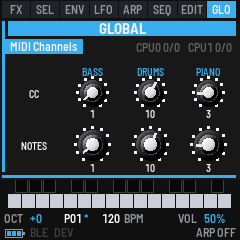
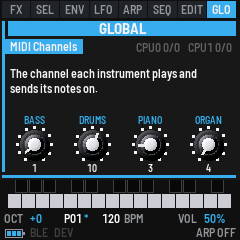
GLO: MIDI CHANNELS the four instruments' note channels on K1-K4 (the organ's on K4), CC CHANNELS (new, after it) their CC channels the same way; the organ's turned and shown as its channel (stored swapped, o_ch); tests follow the page and the knobs; tests/chans.txt

diff --git a/app.c b/app.c
@@ -2506,7 +2506,7 @@ enum { PG_OSC, PG_MIX, PG_MENV, PG_LFO1, PG_LFO2, PG_PATCH, PG_ARP, PG_SEQ, PG_A
        PG_GRND, PG_RPAT, PG_RTRK, PG_GCONN, PG_DHOME, PG_DCH1, PG_DCH2, PG_DCH3, PG_DCH4, PG_DCH5, PG_DCH6,
        PG_DMOD, PG_DPAT, PG_DSONG, PG_DPINFO, PG_DSINFO, PG_GAUD, PG_GCTL, PG_NAME, PG_RHOME, PG_RSEL,
        PG_SHOME, PG_SIN, PG_SECHO, PG_SMOD, PG_RVIEW, PG_SVOICE, PG_DROOM, PG_ATOUCH, PG_WHEELS,
-       PG_GMO, PG_OHOME, PG_OTABS, PG_OLES, NPAGES };                             /* (each new page last: the pages' numbers before it kept) */
+       PG_GMO, PG_OHOME, PG_OTABS, PG_OLES, PG_GCC, NPAGES };                             /* (each new page last: the pages' numbers before it kept) */
 static const char *const PAGE_NAME[NPAGES] = {"OSCILLATORS", "PULSE WIDTH", "TRIGGERING", "LFOS", "LFO MODS", "PATCH", "ARP",
                                               "SEQ", "ENVELOPES", "SUB OSC + MIXER", "FILTERS", "FILTERS LFO 2", "ENV MODS", "EFFECTS", "FX MODS", "ARP MODS", "HOME", "GLOBAL MIDI CHANNELS", "GLOBAL CLOCK",
                                               "GLOBAL DISPLAY", "GLOBAL DUMP", "RND SEED", "RND PATCH", "RND TRACKS",
@@ -2515,7 +2515,7 @@ static const char *const PAGE_NAME[NPAGES] = {"OSCILLATORS", "PULSE WIDTH", "TRI
                                               "PATCH NAME", "PIANO HOME", "PIANO PANEL",
                                               "ECHO HOME", "ECHO INPUT", "ECHO PANEL", "ECHO MODS",
                                               "PIANO PRESETS", "ECHO VOICE", "DRUM ROOM", "AFTERTOUCH", "WHEELS", "GLOBAL MOTION", "ORGAN HOME",
-                                              "ORGAN TABS", "ORGAN LESLIE"};
+                                              "ORGAN TABS", "ORGAN LESLIE", "GLOBAL CC CHANNELS"};
 #define RND_PAGE(g) ((g) >= PG_GRND && (g) <= PG_RTRK)   /* the RND pages */
 #define PATCH_PAGE(g) ((g) == PG_PATCH || (g) == PG_HOME)   /* (PRESET picks the patch: the MASTER, HOME) */
 #define DRUM_PAGE(g) ((g) >= PG_DHOME && (g) < PG_GAUD)        /* Drum Something's pages (HOME held: its mode, ui.drum) */
@@ -2624,14 +2624,16 @@ static const param_t PARAMS[NPAGES][NE] = {
     [PG_EMOD] = {[EN_K1] = {"VELOCITY", PF(vel_amp), -63, 63, 0}, [EN_K2] = {"RETRIG", PF(env_loop[0]), 0, 1, OFF_ON},
                  [EN_K3] = {"COUNT", PF(env_count[0]), 0, 16, COUNT_NAME},
                  [EN_K4] = {"FIXED", PF(env_fixed[0]), 0, 1, OFF_ON}},
-    /* the instruments' channels, each a device of its own: their CCs' on SELECT, ALGO and PRESET, their notes' on K1-K3
-     * (on K2-K4) */
-    [PG_GMIDI] = {[EN_SELECT] = {"BASS CC", SF(cc_chan), CH_OFF, CH_ALL, CHAN_NAME},
-                  [EN_ALGO] = {"DRUMS CC", SF(dcc_chan), CH_OFF, CH_ALL, CHAN_NAME},
-                  [EN_PRESET] = {"PIANO CC", SF(rmi_cc_chan), CH_OFF, CH_ALL, CHAN_NAME},
-                  [EN_K1] = {"BASS", SF(chan), CH_OFF, CH_ALL, CHAN_NAME},
+    /* the instruments' channels, each a device of its own: their notes' on K1-K4, their CCs' on the next page's
+     * (the organ's on K4 stored swapped: o_ch, knob_turn) */
+    [PG_GMIDI] = {[EN_K1] = {"BASS", SF(chan), CH_OFF, CH_ALL, CHAN_NAME},
                   [EN_K2] = {"DRUMS", SF(dchan), CH_OFF, CH_ALL, CHAN_NAME},
-                  [EN_K3] = {"PIANO", SF(rmi_chan), CH_OFF, CH_ALL, CHAN_NAME}},
+                  [EN_K3] = {"PIANO", SF(rmi_chan), CH_OFF, CH_ALL, CHAN_NAME},
+                  [EN_K4] = {"ORGAN", SF(b3_chan), CH_OFF, CH_ALL, CHAN_NAME}},
+    [PG_GCC] = {[EN_K1] = {"BASS CC", SF(cc_chan), CH_OFF, CH_ALL, CHAN_NAME},
+                [EN_K2] = {"DRUMS CC", SF(dcc_chan), CH_OFF, CH_ALL, CHAN_NAME},
+                [EN_K3] = {"PIANO CC", SF(rmi_cc_chan), CH_OFF, CH_ALL, CHAN_NAME},
+                [EN_K4] = {"ORGAN CC", SF(b3_cc_chan), CH_OFF, CH_ALL, CHAN_NAME}},
     [PG_GCONN] = {[EN_PRESET] = {"PROX", SF(prox_tgt), 0, PROX_N - 1u, PROX_NAME},
                   [EN_K1] = {"USB HOST", SF(usb_host), 0, 1, OFF_ON}, [EN_K2] = {"BLE", SF(ble_off), 0, 1, ON_OFF},
                   [EN_K3] = {"AT OUT", SF(at_out), 0, 1, OFF_ON}},
@@ -2742,8 +2744,10 @@ static const char *const TITLE[NPAGES][NE] = {
                    [EN_K3] = "MOD WHEEL LFO 2 FILTER", [EN_K4] = "MOD WHEEL OSC 2 PITCH"},
     [PG_LFO1] = {[EN_SELECT] = "GLIDE TIME", [EN_K1] = "LFO 1 WAVE", [EN_K4] = "LFO 2 WAVE"},
 
-    [PG_GMIDI] = {[EN_SELECT] = "BASS CC CHANNEL", [EN_ALGO] = "DRUMS CC CHANNEL", [EN_PRESET] = "PIANO CC CHANNEL",
-                  [EN_K1] = "BASS CHANNEL", [EN_K2] = "DRUMS CHANNEL", [EN_K3] = "PIANO CHANNEL"},
+    [PG_GMIDI] = {[EN_K1] = "BASS CHANNEL", [EN_K2] = "DRUMS CHANNEL", [EN_K3] = "PIANO CHANNEL",
+                  [EN_K4] = "ORGAN CHANNEL"},
+    [PG_GCC] = {[EN_K1] = "BASS CC CHANNEL", [EN_K2] = "DRUMS CC CHANNEL", [EN_K3] = "PIANO CC CHANNEL",
+                [EN_K4] = "ORGAN CC CHANNEL"},
     [PG_GCONN] = {[EN_PRESET] = "PROX TARGET", [EN_K1] = "USB MIDI HOST", [EN_K2] = "BLUETOOTH MIDI",
                   [EN_K3] = "AFTER TOUCH OUT"},
     [PG_GCLK] = {[EN_K3] = "SEND MIDI CLOCK", [EN_K4] = "CLOCK SYNC"},
@@ -3186,7 +3190,7 @@ static const uint8_t ENC_MAP[NPAGES] = {
     [PG_FX] = EMAP(EP_AP, 0),                                  /* Octave over Wave, the Sub knob beside */
     [PG_AENV] = EMAP(EP_SP, 0), [PG_MENV] = EMAP(EP_SP, 0), [PG_EMOD] = EMAP(EP_SP, 0),   /* Env Select (Triggering beside) */
     [PG_LFO1] = EMAP(EP_SP, 0), [PG_LFO2] = EMAP(EP_SP, 1),   /* Glide, Delay/Speed beside; the mods' LFO, 3 knobs */
-    [PG_GMIDI] = EMAP(EP_SP, 1),                               /* the bass's CC Chan on PRESET as it was; notes on K2-K4 */
+    [PG_GMIDI] = EMAP(EP_SAME, 0), [PG_GCC] = EMAP(EP_SAME, 0),   /* the four instruments on K1-K4 */
     [PG_GCONN] = EMAP(EP_SAME, 1),
     [PG_GCLK] = EMAP(EP_SAME, 0), [PG_GAUD] = EMAP(EP_SAME, 2), [PG_GCTL] = EMAP(EP_SAME, 0), [PG_NAME] = EMAP(EP_SAME, 1),
     [PG_SEQ] = EMAP(EP_ROW, 0),                                /* SEQ, LENGTH, STEP */
@@ -3659,6 +3663,12 @@ static int knob_turn(uint32_t k, int32_t e)
     }
     if (!q->name)
         return 0;
+    if ((ui.page == PG_GMIDI || ui.page == PG_GCC) && k == EN_K4) {   /* (the organ's: turned as its channel, stored
+                                              * swapped, o_ch) */
+        uint8_t *c = ui.page == PG_GCC ? &set.b3_cc_chan : &set.b3_chan;
+        *c = (uint8_t)o_ch((uint32_t)clamp((int32_t)o_ch(*c) + e, CH_OFF, CH_ALL));
+        return 1;
+    }
     param_put(q, page_rec(ui.page), param_get(q, page_rec(ui.page)) + e);
     if (ui.page < PG_GMIDI) {                /* (the GLO pages' keep themselves: glo_keep) */
         org_set(q);
@@ -3763,6 +3773,11 @@ static int dt_knobs_split(void)              /* PRESET the left display, ALGO th
 static void knob_text(uint32_t k, char *t)
 {
     const param_t *q;
+    if ((ui.page == PG_GMIDI || ui.page == PG_GCC) && k == EN_K4) {   /* (the organ's channel, stored swapped) */
+        t[0] = 0;
+        text_cat(t, CHAN_NAME[o_ch(ui.page == PG_GCC ? set.b3_cc_chan : set.b3_chan)]);
+        return;
+    }
     if (ui.page == PG_GCLK && k == EN_K1) {  /* (the tempo, as on ARP) */
         ui.page = PG_ARP;
         knob_text(k, t);
@@ -4433,8 +4448,8 @@ static const char *const HINT[NPAGES][NE] = {
     [PG_ATOUCH] = {[EN_K1] = "Pressure to cutoff", "Pressure: LFO 1 vibrato", "Pressure: LFO 2 faster"},
     [PG_WHEELS] = {[EN_PRESET] = "Bend range, semitones", [EN_K1] = "Mod wheel to cutoff", "Mod wheel: LFO 1 vibrato",
                    "Mod wheel: LFO 2 to cutoff", "Mod wheel to osc 2 pitch"},
-    [PG_GMIDI] = {"Bass CC channel", "Drums' CC channel", "Piano's CC channel", "Bass note channel",
-                  "Drums' note channel", "Piano's note channel"},
+    [PG_GMIDI] = {[EN_K1] = "Bass note channel", "Drums' note channel", "Piano's note channel", "Organ's note channel"},
+    [PG_GCC] = {[EN_K1] = "Bass CC channel", "Drums' CC channel", "Piano's CC channel", "Organ's CC channel"},
     [PG_GCONN] = {[EN_PRESET] = "Bluetooth distance turns it", [EN_K1] = "A USB MIDI device, no computer",
                   "Bluetooth MIDI", "Pressure out as MIDI"},
     [PG_GCLK] = {[EN_K1] = "Speed, BPM", [EN_K3] = "Send MIDI clock", "Clock to follow"},
@@ -4509,7 +4524,7 @@ static uint32_t tap_page(uint32_t k)
     case B_GLO:                              /* on the RND pages their next; else the global settings' */
         if (RND_PAGE(g))
             return g == PG_GRND ? PG_RPAT : g == PG_RPAT ? PG_RTRK : PG_GRND;
-        return g == PG_GMIDI ? PG_GCONN : g == PG_GCONN ? PG_GCLK : g == PG_GCLK ? PG_GCTL : g == PG_GCTL ? PG_GAUD
+        return g == PG_GMIDI ? PG_GCC : g == PG_GCC ? PG_GCONN : g == PG_GCONN ? PG_GCLK : g == PG_GCLK ? PG_GCTL : g == PG_GCTL ? PG_GAUD
                : g == PG_GAUD ? PG_GDISP : g == PG_GDISP ? PG_GMO : g == PG_GMO ? PG_GDUMP : PG_GMIDI;
     }
     return NPAGES;
@@ -4534,7 +4549,7 @@ static uint32_t dt_arp_next(uint32_t f)
 }
 static uint32_t dt_glo_next(uint32_t g)      /* the settings the two share, from the drums' own */
 {
-    return g == PG_GMIDI ? PG_GCONN : g == PG_GCONN ? PG_GCLK : g == PG_GCLK ? PG_GCTL
+    return g == PG_GMIDI ? PG_GCC : g == PG_GCC ? PG_GCONN : g == PG_GCONN ? PG_GCLK : g == PG_GCLK ? PG_GCTL
            : g == PG_GCTL ? PG_GAUD : g == PG_GAUD ? PG_GDISP : g == PG_GDISP ? PG_GMO : PG_GMIDI;
 }
 static const char *const DT_SHORT[NDT] = {"BASS", "SNARE", "RIM", "TOM 1", "TOM 2", "CRASH", "RIDE", "CLOSE", "OPEN",
@@ -4545,7 +4560,7 @@ static const char *btn_hint(uint32_t k)      /* button k's, pressed on this page
         [PG_OSC] = "Oscillators", [PG_MIX] = "Pulse Width", [PG_FX] = "Sub + Mixer", [PG_AENV] = "Envelopes",
         [PG_MENV] = "Triggering", [PG_EMOD] = "Env Mods", [PG_LFO1] = "LFOs", [PG_LFO2] = "LFO Mods",
         [PG_TUNE] = "Filters", [PG_FMOD] = "Filter LFO 2", [PG_EFX] = "Effects", [PG_XMOD] = "FX Mods", [PG_ATOUCH] = "Aftertouch", [PG_WHEELS] = "Wheels",
-        [PG_ARP] = "Arp", [PG_AMOD] = "Arp Mods", [PG_SEQ] = "Sequencer", [PG_GMIDI] = "MIDI Channels", [PG_GCLK] = "Clock", [PG_GAUD] = "Audio", [PG_GCTL] = "Keys", [PG_NAME] = "Patch Name", [PG_RSEL] = "Piano Panel", [PG_RVIEW] = "Piano Presets",
+        [PG_ARP] = "Arp", [PG_AMOD] = "Arp Mods", [PG_SEQ] = "Sequencer", [PG_GMIDI] = "MIDI Channels", [PG_GCC] = "CC Channels", [PG_GCLK] = "Clock", [PG_GAUD] = "Audio", [PG_GCTL] = "Keys", [PG_NAME] = "Patch Name", [PG_RSEL] = "Piano Panel", [PG_RVIEW] = "Piano Presets",
         [PG_GDISP] = "Display", [PG_GMO] = "Motion", [PG_GDUMP] = "Dump", [PG_OHOME] = "Organ", [PG_OTABS] = "Organ Tabs",
         [PG_OLES] = "Leslie", [PG_GRND] = "RND Seed", [PG_RPAT] = "RND Patch",
         [PG_RTRK] = "RND Tracks", [PG_GCONN] = "Connect"};
@@ -6067,7 +6082,7 @@ static const uint8_t PAGE_SEC[NPAGES] = {[PG_OSC] = SEC_EDIT, [PG_MIX] = SEC_EDI
                                          [PG_ARP] = SEC_ARP, [PG_SEQ] = SEC_SEQ, [PG_AENV] = SEC_ENV, [PG_FX] = SEC_EDIT,
                                          [PG_TUNE] = SEC_FX, [PG_FMOD] = SEC_FX,
                                          [PG_EMOD] = SEC_ENV, [PG_EFX] = SEC_FX, [PG_XMOD] = SEC_FX, [PG_AMOD] = SEC_ARP, [PG_HOME] = NSEC,
-                                         [PG_GMIDI] = SEC_GLO, [PG_GCLK] = SEC_GLO, [PG_GAUD] = SEC_GLO, [PG_GCTL] = SEC_GLO, [PG_GDUMP] = SEC_GLO, [PG_GDISP] = SEC_GLO, [PG_GMO] = SEC_GLO,
+                                         [PG_GMIDI] = SEC_GLO, [PG_GCC] = SEC_GLO, [PG_GCLK] = SEC_GLO, [PG_GAUD] = SEC_GLO, [PG_GCTL] = SEC_GLO, [PG_GDUMP] = SEC_GLO, [PG_GDISP] = SEC_GLO, [PG_GMO] = SEC_GLO,
                                          [PG_GRND] = SEC_GLO, [PG_RPAT] = SEC_GLO,
                                          [PG_RTRK] = SEC_GLO, [PG_GCONN] = SEC_GLO, [PG_DHOME] = NSEC,
                                          [PG_DCH1] = SEC_EDIT, [PG_DCH2] = SEC_EDIT, [PG_DCH3] = SEC_EDIT,
@@ -7742,21 +7757,22 @@ static void info(int32_t x, int32_t w, int32_t y, const char *name, const char *
     cv_text(x + w, y, &FONT_T, v, c);
 }
 #define GLO_ROW 124                          /* the knobs' and switches' row */
-/* GLOBAL MIDI CHANNELS: each instrument's channels in its column, Bass, Drums and Piano: its CCs' along the top (SELECT,
- * ALGO, PRESET: on PRESET, ALGO, SELECT) and its notes' along the bottom (K1-K3, on K2-K4), each knob's channel under it */
+/* GLOBAL MIDI CHANNELS and GLOBAL CC CHANNELS: each instrument's channel for its notes, or for its CCs, on K1-K4:
+ * Bass, Drums, Piano, Organ, each knob's channel under it */
 static void glo_chan_draw(void)
 {
-    static const char *const NAME[3] = {"Bass", "Drums", "Piano"};
+    static const char *const NAME[4] = {"Bass", "Drums", "Piano", "Organ"};
+    const int cc = ui.page == PG_GCC;
     uint32_t i;
-    glo_frame("MIDI Channels");
-    print_c(34, 68, "CC", P_SILK);
-    print_c(34, GLO_ROW - 4, "Notes", P_SILK);
-    for (i = 0; i < 3u; i++) {
-        const int32_t x = 92 + 58 * (int32_t)i;
-        const param_t *cc = knob_param(EN_SELECT + i), *n = knob_param(EN_K1 + i);
-        print_c(x, 46, NAME[i], P_CYAN);
-        print_knob(x, 72, 12, cc, EN_SELECT + i, 1, CHAN_NAME[param_get(cc, &set)], 0);
-        print_knob(x, GLO_ROW, 14, n, EN_K1 + i, 1, CHAN_NAME[param_get(n, &set)], 0);
+    glo_frame(cc ? "CC Channels" : "MIDI Channels");
+    cv_text(10, 46, &FONT_XS, cc ? "The channel each instrument's knobs" : "The channel each instrument plays and", P_SILK);
+    cv_text(10, 61, &FONT_XS, cc ? "answer MIDI CC on." : "sends its notes on.", P_SILK);
+    for (i = 0; i < 4u; i++) {
+        const int32_t x = 34 + 58 * (int32_t)i;
+        const param_t *q = knob_param(EN_K1 + i);
+        const uint32_t v = (uint32_t)param_get(q, &set);
+        print_c(x, GLO_ROW - 30, NAME[i], P_CYAN);
+        print_knob(x, GLO_ROW, 14, q, EN_K1 + i, 1, CHAN_NAME[i == 3u ? o_ch(v) : v], 0);
     }
 }
 /* GLOBAL CONNECT: what the FM-1 is joined to and what goes out to it: the USB host (K1, on K2: a USB MIDI device on the
@@ -9898,7 +9914,7 @@ static void panel_draw(void)                 /* the page's section panel, from u
             droom_draw();
         else if (ui.page == PG_LFO1)
             lfos_draw();
-        else if (ui.page == PG_GMIDI)
+        else if (ui.page == PG_GMIDI || ui.page == PG_GCC)
             glo_chan_draw();
         else if (ui.page == PG_GCONN)
             glo_conn_draw();
@@ -10677,6 +10693,10 @@ int app_expect(const char *what, int *got)
         *got = set.dchan;
     else if (!strcmp(what, "dcc_chan"))
         *got = set.dcc_chan;
+    else if (!strcmp(what, "b3_chan"))       /* the organ's channels, as shown (stored swapped: o_ch) */
+        *got = (int32_t)o_ch(set.b3_chan);
+    else if (!strcmp(what, "b3_cc_chan"))
+        *got = (int32_t)o_ch(set.b3_cc_chan);
     else if (!strcmp(what, "rmi_chan"))      /* GLO RMI: its channels, ROUTE */
         *got = set.rmi_chan;
     else if (!strcmp(what, "rmi_cc_chan"))

diff --git a/docs/MANUAL.md b/docs/MANUAL.md
@@ -98,7 +98,7 @@ GLOBAL KEYS' KNOBS sets how much they speed up, from FINE to COARSE.
 | ARP | ARPEGGIATOR: tempo, rhythm, mode, octaves, the On and Latch buttons (held a second: AFX mode) | the group's mods (Seq Retrig, swing), then back |
 | SEQ | SEQ: the sequencer (held a second: AFX mode) | recording on or off (the arp's REC) |
 | EDIT | OSCILLATORS: the pitch's view | the pulse width's view; then SUB OSC + MIXER, beside them on a Bass Station II. Held a second: [a random sound](#a-random-sound) |
-| GLO | GLOBAL MIDI CHANNELS (held a second: the RND pages) | GLOBAL CONNECT, then GLOBAL CLOCK, GLOBAL KEYS, GLOBAL AUDIO, GLOBAL DISPLAY, GLOBAL MOTION and GLOBAL DUMP |
+| GLO | GLOBAL MIDI CHANNELS (held a second: the RND pages) | GLOBAL CC CHANNELS, then GLOBAL CONNECT, GLOBAL CLOCK, GLOBAL KEYS, GLOBAL AUDIO, GLOBAL DISPLAY, GLOBAL MOTION and GLOBAL DUMP |
 
 SEL opens MASTER on every page except where it has a job of its own, printed
 on the page: GLOBAL DUMP, the RND pages, and SEQ while the sequencer records.
@@ -119,7 +119,7 @@ and ALGO, two one over the other on SELECT and ALGO, and three where they lie on
 **Hints** (GLOBAL DISPLAY, K3) add a few words on what each control does: under the value as you turn a
 knob ("Filter cutoff", "Fade-in time", "Note order"), and over the keys as you press a button ("Save the patch").
 A section's button (ENV, LFO, FX, EDIT, ARP, SEQ, GLO) names the page its next tap opens, from the page you're on,
-and what holding it does: on GLOBAL MIDI CHANNELS, "GLO tap: Connect, hold: RND Synth Companion"; on GLOBAL CLOCK, "GLO tap:
+and what holding it does: on GLOBAL MIDI CHANNELS, "GLO tap: CC Channels, hold: RND Synth Companion"; on GLOBAL CLOCK, "GLO tap:
 Keys, hold: RND Synth Companion"; on ARP, "ARP tap: Arp Mods, hold: AFX mode". They're on until you turn them off, and the FM-1 remembers the setting.
 
 ![Hints on the FILTERS: Frequency turned to 97, with Filter cutoff under its value](img/screen-hint.png "Hints: what a knob does")
@@ -692,8 +692,8 @@ FX again opens DRUM ROOM, the small room the drums ring in. Each knob starts at 
 
 ### MIDI
 
-Drum Something 400 is a MIDI device of its own. GLOBAL MIDI CHANNELS (GLO) sets its note channel and its CC channel, both 10
-by default, in its DRUMS column.
+Drum Something 400 is a MIDI device of its own. GLOBAL MIDI CHANNELS (GLO) sets its note channel (K2) and GLOBAL CC CHANNELS its CC channel (K2), both 10
+by default.
 
 | Control | What it does |
 | --- | --- |
@@ -732,13 +732,13 @@ On its HOME, PRESET and K1 to K4 do the same, the camera zooming in on the panel
 keys' touch (the 368X didn't): the softest note at about a third of the hardest, through GLO KEYS' Velocity
 curve. The panel keeps itself with the GLO settings, so SAVE has nothing to do here.
 
-It is a MIDI device of its own, as the drums are: its channels are in GLOBAL MIDI CHANNELS' PIANO column, ROUTE is on
+It is a MIDI device of its own, as the drums are: its channels are on K3 of GLOBAL MIDI CHANNELS and GLOBAL CC CHANNELS, ROUTE is on
 GLOBAL KEYS.
 
 | Control | What it does |
 | --- | --- |
-| SELECT · PIANO CC (GLOBAL MIDI CHANNELS) | The channel its CCs come in on, and the Space Echo's (section 10's numbers, its sends with them): OFF, 1 to 16 or ALL. 3 by default. |
-| K4 · PIANO (GLOBAL MIDI CHANNELS) | The channel its notes come in on and its keys' notes go out on. 3 by default. |
+| K3 · PIANO CC (GLOBAL CC CHANNELS) | The channel its CCs come in on, and the Space Echo's (section 10's numbers, its sends with them): OFF, 1 to 16 or ALL. 3 by default. |
+| K3 · PIANO (GLOBAL MIDI CHANNELS) | The channel its notes come in on and its keys' notes go out on. 3 by default. |
 | K4 · ROUTE (GLOBAL KEYS) | Notes from one instrument to the other, inside the FM-1: OFF, PIANO>BASS, BASS>PIANO or BOTH. |
 
 Its CCs: 11 its volume (MIDI's Expression; 7 is the bass's), 64 the sustain pedal, 61 PIANO, 62 HARPSI, 63 LUTE, 65
@@ -822,7 +822,7 @@ JAZZ (888000000, with the 3rd's percussion), FULL ORGAN (888888888), GOSPEL (888
 (886000000), BLUES (888600000), ROCK (888000000, driven hard), SHUFFLE (838000000), FLUTE (008000000), CLARINET
 (008080800), PERC SECOND (808000000) and ORGAN LICKER (207736358). The rest start as INIT.
 
-Its MIDI is its own, on channel 4 by default: notes in and out, and these CCs on the same channel. 12 to 20 the nine
+Its MIDI is its own, on channel 4 by default (ORGAN, K4 on GLOBAL MIDI CHANNELS and GLOBAL CC CHANNELS): notes in and out, and these CCs on the same channel. 12 to 20 the nine
 drawbars, 21 the percussion, 22 its THIRD, 23 SOFT, 24 FAST, 30 the vibrato, 25 its knob, 26 the drive, 28 the click,
 29 the width, 7 the volume; live, 1 (the mod wheel) the Leslie fast, 27 the brake, 11 the expression pedal. For an
 on or off, 64 and up is on.
@@ -1175,7 +1175,7 @@ Levels and sends go back to the middle with every new patch, as on the RND Synth
 
 ### Playing its tracks
 
-The RND Synth plays its tracks on MIDI channels 1 to 4. Set GLOBAL MIDI CHANNELS' BASS (K2) to one of them, and the FM-1
+The RND Synth plays its tracks on MIDI channels 1 to 4. Set GLOBAL MIDI CHANNELS' BASS (K1) to one of them, and the FM-1
 plays that track's notes with its own sound. On ALL, the four tracks share the FM-1's one voice, each new note cutting
 off the last.
 
@@ -1201,9 +1201,10 @@ The keys go out over USB and Bluetooth: their notes with velocity, and their pre
 GLO opens the global settings; press it again for the next page. They belong to the FM-1, not to a patch, and they
 save themselves: two seconds after you change one, once the FM-1 is quiet (see SEQ), it's kept through power-off,
 without SAVE (so a GLO change never
-writes over your patch), and SAVE doesn't light for them. Each page is a GLOBAL panel with its own bar, one subject to a page: MIDI Channels, Connect, Clock, Keys, Audio, Display, Motion and
-BS2 SysEx Dump (GLOBAL MOTION's are the motion recorder's, live only as its loop is: see Motion recorder). GLOBAL MIDI CHANNELS has a column for each instrument (Bass, Drums, Piano): its CC channel on top, its
-note channel under it, each knob's channel printed beneath. A red display shows the main value where a page has one: GLOBAL CLOCK's the tempo (while MIDI clock leads, its tempo as measured over
+writes over your patch), and SAVE doesn't light for them. Each page is a GLOBAL panel with its own bar, one subject to a page: MIDI Channels, CC Channels, Connect, Clock, Keys, Audio, Display, Motion and
+BS2 SysEx Dump (GLOBAL MOTION's are the motion recorder's, live only as its loop is: see Motion recorder). GLOBAL MIDI CHANNELS sets the channel each instrument plays and sends its notes on, K1 to K4: Bass (1 by default), Drums
+(10), Piano (3) and Organ (4); GLOBAL CC CHANNELS the channel each one's knobs answer MIDI CC on, on the same knobs
+(1, 10, 3 and 4). Each knob's channel is printed beneath it. A red display shows the main value where a page has one: GLOBAL CLOCK's the tempo (while MIDI clock leads, its tempo as measured over
 every two beats; dashes until then) with the clock's state beside it, GLOBAL DUMP's the patch. GLOBAL DISPLAY shows the
 firmware's version (VERSION v0.8.2). The on/off settings are slide switches.
 
@@ -1216,7 +1217,8 @@ a click), a count follows in cyan, for example **CPU0 97/100 !2**, and stays unt
 from something else. A write to memory (SAVE, a patch change, and the sequence and GLO settings keeping themselves) holds
 up the sound for a moment. In silence nothing is heard and it isn't counted; while something is sounding, it counts.
 
-![GLO MIDI CHANNELS: Bass, Drums and Piano columns, each a CC channel knob over a note channel knob](img/screen-glo-channels.png "GLO: MIDI CHANNELS")
+![GLO MIDI CHANNELS: the Bass, Drums, Piano and Organ note channel knobs](img/screen-glo-channels.png "GLO: MIDI CHANNELS")
+![GLO CC CHANNELS: the Bass, Drums, Piano and Organ CC channel knobs](img/screen-glo-cc.png "GLO, again: CC CHANNELS")
 ![GLO CONNECT: how Bluetooth and USB stand (a keyboard connected), then the USB Host, Bluetooth and AT Out switches](img/screen-glo-connect.png "GLO, again: CONNECT")
 ![GLO CLOCK: the tempo 120 on the display and what the clock is doing, then the Tempo knob, the Send Clk switch and the Sync knob](img/screen-glo-clock.png "GLO, again: CLOCK")
 ![GLO KEYS: what each does, then the Velocity and Knobs knobs, the Local switch and the Route knob](img/screen-glo-keys.png "GLO, again: KEYS")
@@ -1320,7 +1322,7 @@ Station II uses two CCs for one knob (cutoff 16 and 48, for example), the FM-1 r
 | 119 | ARP | RHYTHM, K2 |
 
 **Space Something 201:** its knobs and the three instruments' sends into it, on the same channel and on the piano's
-CC channel (PIANO CC, GLOBAL MIDI CHANNELS). On the piano's channel the bass's own CCs are left alone, so a controller
+CC channel (PIANO CC, GLOBAL CC CHANNELS). On the piano's channel the bass's own CCs are left alone, so a controller
 there works the echo without touching the patch. They set its settings, not the patch, so SAVE doesn't light. MODE
 takes 0 to 11 (11 is REVERB ONLY). BASS, TREBLE and TEMPO SYNC have no CC.
 

diff --git a/docs/SIZE_LOG.md b/docs/SIZE_LOG.md
@@ -225,3 +225,4 @@ What each change costs on the FM-1, from the device build (`tools/build.py bs2`)
 | 2026-11-15 | 5947cea | SAVE as a Bass Station II's: to the MASTER, the slot blinking, PRESET picks, SAVE stores (another button cancels) | 470,612 | +756 | 110,952 | 72,864 | -16 | 25,440 | 254,828 |
 | 2026-11-15 | df82ad7 | Audio blocks of 128 frames (2.9 ms), not 256: a MIDI note to its sound 5.6 ms, was 10.2 | 470,596 | -16 | 110,968 | 69,280 | -3,584 | 29,024 | 248,172 |
 | 2026-11-16 | 9a9f22e | Overload guard: the second core past 88% of a block caps voices (RMI 8/6/5/4, B3 wheels), says OVERLOAD; B3 prototype targets only on change, its chain skipped while silent | 470,936 | +340 | 110,628 | 69,296 | +16 | 29,008 | 248,172 |
+| 2026-11-16 | d97b629+ | GLO: MIDI CHANNELS and CC CHANNELS apart, the organ's on K4 | 487,692 | +16,756 | 93,872 | 73,132 | +3,836 | 25,172 | 267,268 |
